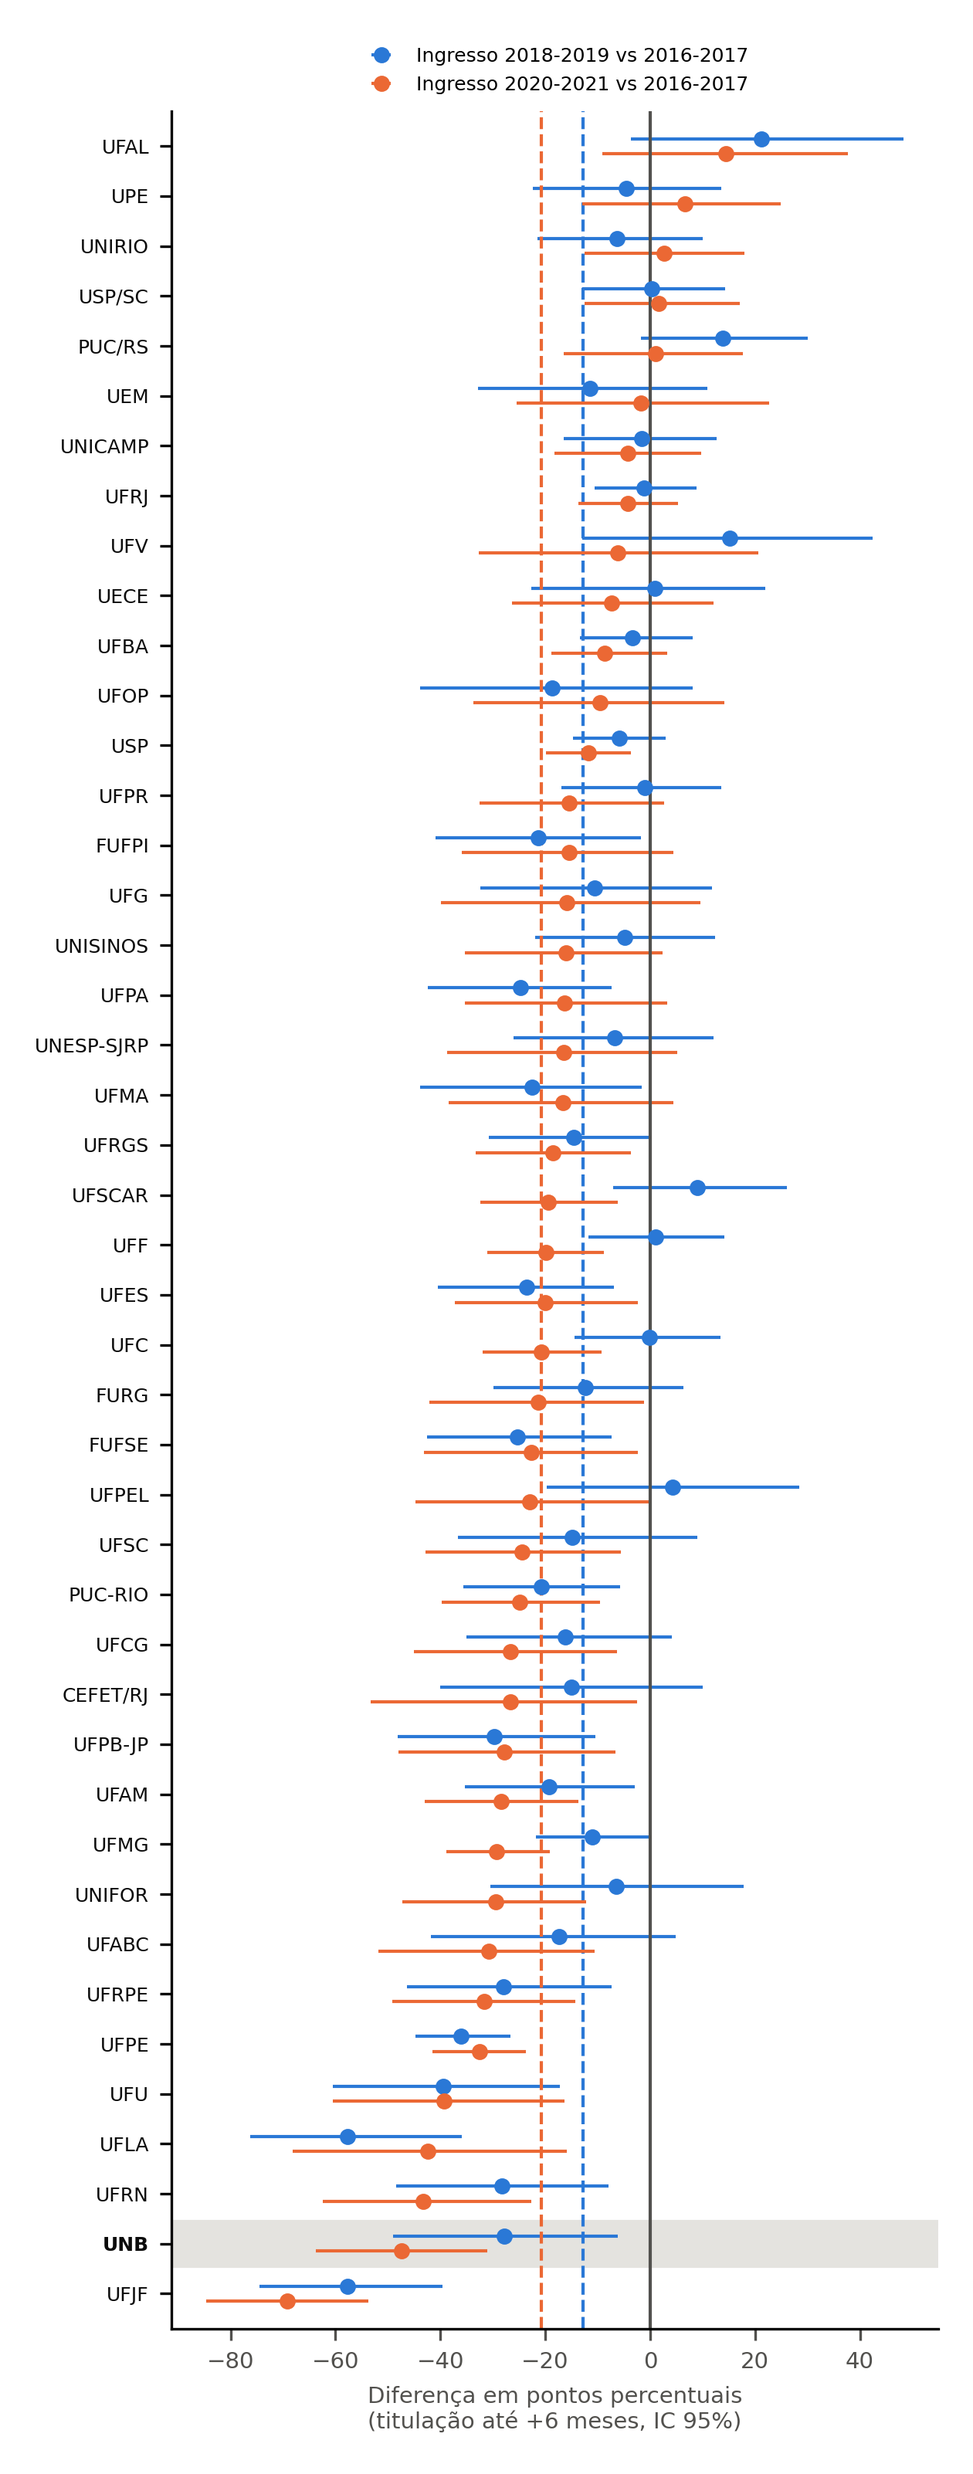
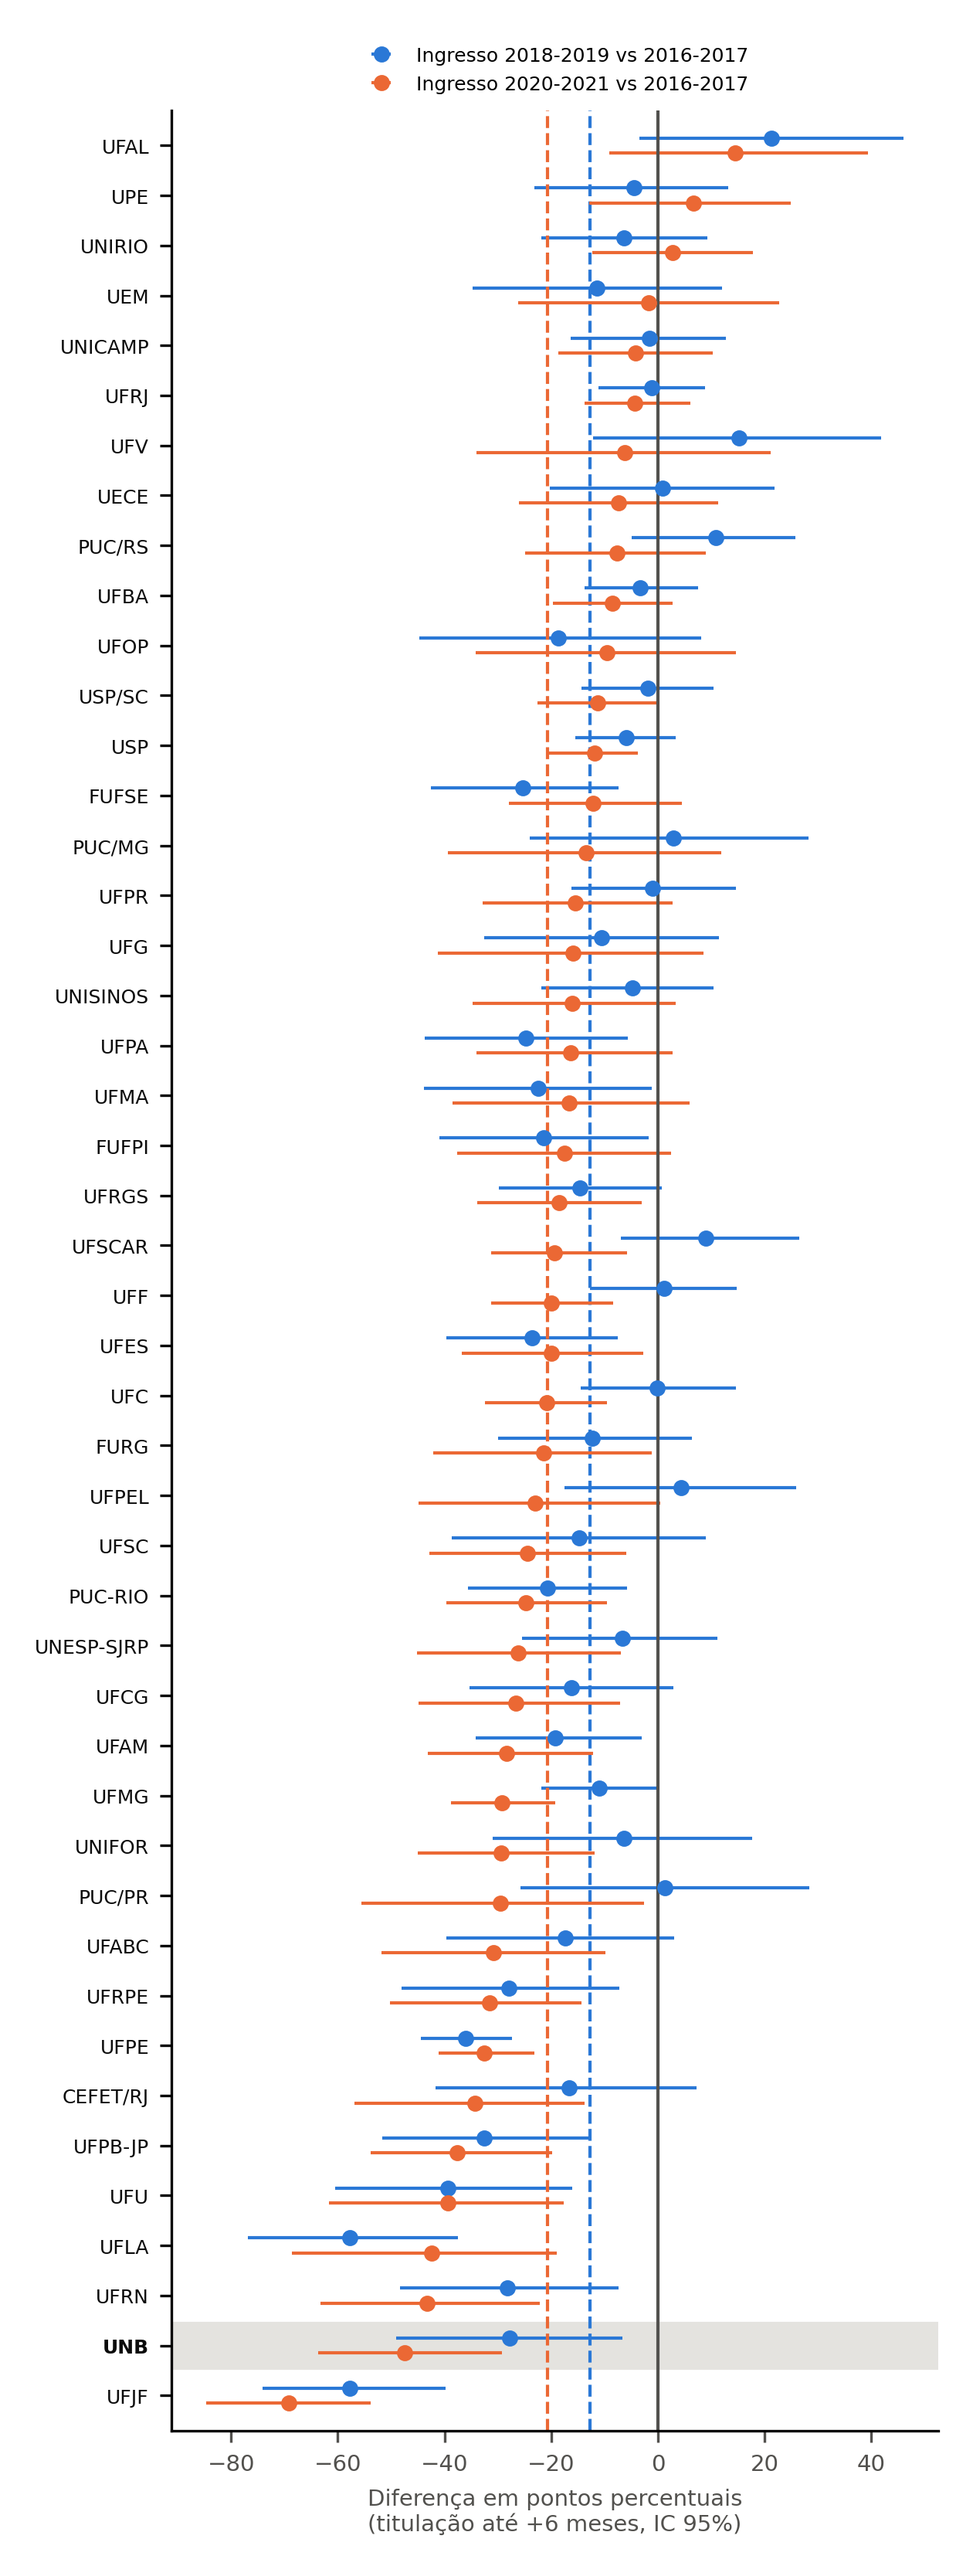
Padroniza siglas de instituições que mudaram de grafia em 2023 e 2024

diff --git a/config.py b/config.py
@@ -16,6 +16,22 @@ GRUPOS = {
     },
 }
 
+# Em 2024 (e em 2023, no caso da UFS) a CAPES mudou a grafia da sigla de algumas
+# instituições. Sem padronizar, o mesmo programa apareceria como duas instituições.
+# Mantém-se a grafia usada de 2017 a 2023.
+SIGLAS_EQUIVALENTES = {
+    "CEFET-RJ": "CEFET/RJ",
+    "UFPI": "FUFPI",
+    "UFS": "FUFSE",
+    "PUC MINAS": "PUC/MG",
+    "PUCPR": "PUC/PR",
+    "PUCRS": "PUC/RS",
+    "UFPB-JOÃO PESSOA": "UFPB-JP",
+    "UNESP-SJ RIO PRETO": "UNESP-SJRP",
+    "USP-RIBEIRÃO PRETO": "USP/RP",
+    "USP-SÃO CARLOS": "USP/SC",
+}
+
 HORIZONTE_MESES = {"MESTRADO": 12, "DOUTORADO": 36}
 CORTE_ATIVO_MESES = 12        # ativos 12 meses antes do prazo
 LIMITE_CORRECAO_DIAS = 180    # acima disso, reingresso

diff --git a/src/01_carregar.py b/src/01_carregar.py
@@ -64,6 +64,9 @@ def main():
     # A base grafa a mesma situação de dois jeitos
     base["NM_SITUACAO_DISCENTE"] = base["NM_SITUACAO_DISCENTE"].str.replace("MUDANCA", "MUDANÇA")
 
+    # Padroniza as siglas que mudaram de grafia ao longo dos anos (ver config.py)
+    base["SG_ENTIDADE_ENSINO"] = base["SG_ENTIDADE_ENSINO"].replace(config.SIGLAS_EQUIVALENTES)
+
     saida = RAIZ / "data" / "processed" / "base.parquet"
     base.to_parquet(saida, index=False)
 
